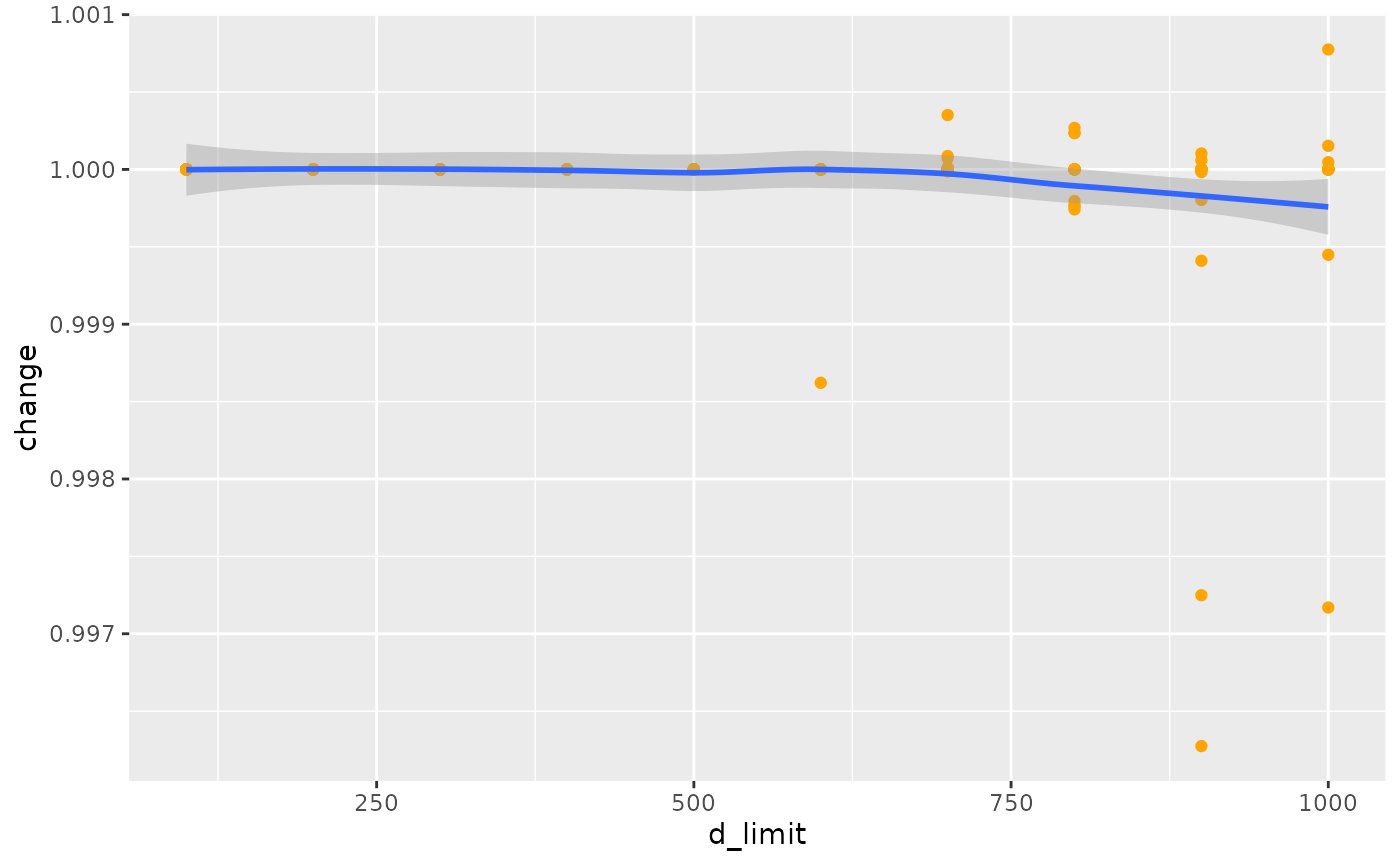
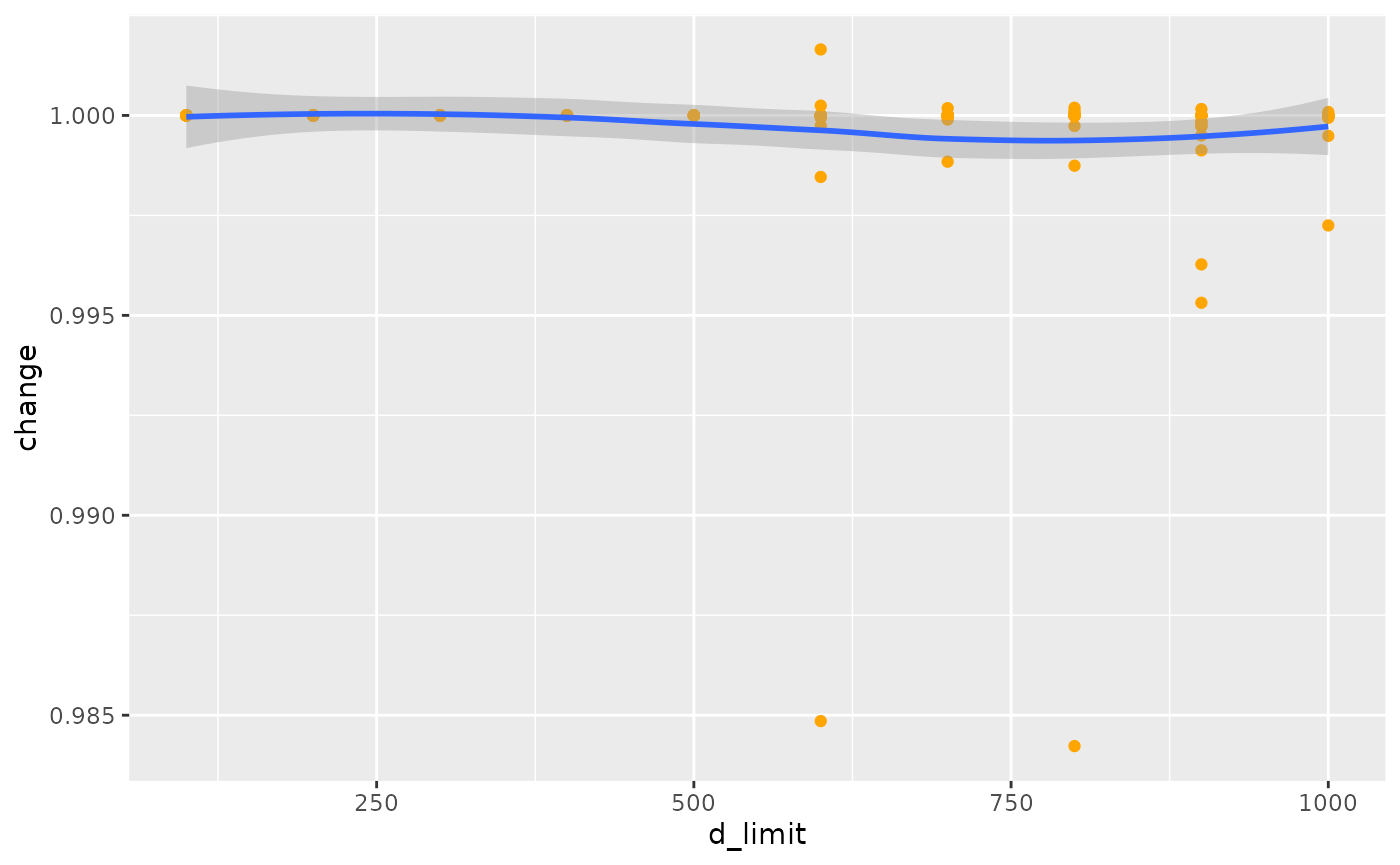
Deploying to gh-pages from @ UrbanAnalyst/gtfsrouter@ca607abd9677c1296d4531fa14f2df3e9f7f9b86 🚀

diff --git a/docs/articles/gtfsrouter.html b/docs/articles/gtfsrouter.html
@@ -33,7 +33,7 @@
       </button>
       <span class="navbar-brand">
         <a class="navbar-link" href="../index.html">gtfsrouter</a>
-        <span class="version label label-default" data-toggle="tooltip" data-placement="bottom" title="">0.1.0.006</span>
+        <span class="version label label-default" data-toggle="tooltip" data-placement="bottom" title="">0.1.0.008</span>
       </span>
     </div>
 
@@ -73,7 +73,7 @@
                         <h4 data-toc-skip class="author">Mark
 Padgham</h4>
             
-            <h4 data-toc-skip class="date">2023-06-27</h4>
+            <h4 data-toc-skip class="date">2023-06-30</h4>
       
       <small class="dont-index">Source: <a href="https://github.com/UrbanAnalyst/gtfsrouter/blob/HEAD/vignettes/gtfsrouter.Rmd" class="external-link"><code>vignettes/gtfsrouter.Rmd</code></a></small>
       <div class="hidden name"><code>gtfsrouter.Rmd</code></div>
@@ -126,7 +126,7 @@ to a locally-stored <code>.zip</code> archive in the
 data can be exported and re-imported with:</p>
 <div class="sourceCode" id="cb1"><pre class="downlit sourceCode r">
 <code class="sourceCode R"><span><span class="fu"><a href="../reference/berlin_gtfs_to_zip.html">berlin_gtfs_to_zip</a></span><span class="op">(</span><span class="op">)</span></span></code></pre></div>
-<pre><code><span><span class="co">## [1] "/tmp/RtmpXWNGxZ/vbb.zip"</span></span></code></pre>
+<pre><code><span><span class="co">## [1] "/tmp/RtmphxlksY/vbb.zip"</span></span></code></pre>
 <div class="sourceCode" id="cb3"><pre class="downlit sourceCode r">
 <code class="sourceCode R"><span><span class="va">f</span> <span class="op">&lt;-</span> <span class="fu"><a href="https://rdrr.io/r/base/file.path.html" class="external-link">file.path</a></span> <span class="op">(</span><span class="fu"><a href="https://rdrr.io/r/base/tempfile.html" class="external-link">tempdir</a></span> <span class="op">(</span><span class="op">)</span>, <span class="st">"vbb.zip"</span><span class="op">)</span></span>
 <span><span class="fu"><a href="https://rdrr.io/r/base/files.html" class="external-link">file.exists</a></span> <span class="op">(</span><span class="va">f</span><span class="op">)</span></span></code></pre></div>
@@ -160,7 +160,7 @@ for the current day of the week.</p>
 <span><span class="fu"><a href="../reference/gtfs_route.html">gtfs_route</a></span> <span class="op">(</span><span class="va">gtfs</span>,</span>
 <span>            from <span class="op">=</span> <span class="va">from</span>,</span>
 <span>            to <span class="op">=</span> <span class="va">to</span><span class="op">)</span></span></code></pre></div>
-<pre><code><span><span class="co">## Day not specified; extracting timetable for tuesday</span></span></code></pre>
+<pre><code><span><span class="co">## Day not specified; extracting timetable for friday</span></span></code></pre>
 <table class="table">
 <colgroup>
 <col width="11%">
@@ -347,7 +347,7 @@ data:</p>
 <span>                day <span class="op">=</span> <span class="st">"Sunday"</span><span class="op">)</span></span>
 <span>    <span class="op">)</span></span></code></pre></div>
 <pre><code><span><span class="co">##    user  system elapsed </span></span>
-<span><span class="co">##   0.073   0.012   0.085</span></span></code></pre>
+<span><span class="co">##   0.084   0.000   0.083</span></span></code></pre>
 <div class="sourceCode" id="cb14"><pre class="downlit sourceCode r">
 <code class="sourceCode R"><span><span class="fu"><a href="https://rdrr.io/r/base/names.html" class="external-link">names</a></span> <span class="op">(</span><span class="va">gtfs</span><span class="op">)</span></span></code></pre></div>
 <pre><code><span><span class="co">## [1] "calendar"   "routes"     "trips"      "stop_times" "stops"     </span></span>
@@ -365,7 +365,7 @@ data:</p>
 <span>                         to <span class="op">=</span> <span class="va">to</span>,</span>
 <span>                         start_time <span class="op">=</span> <span class="st">"12:00:00"</span><span class="op">)</span><span class="op">)</span></span></code></pre></div>
 <pre><code><span><span class="co">##    user  system elapsed </span></span>
-<span><span class="co">##   0.064   0.000   0.064</span></span></code></pre>
+<span><span class="co">##   0.062   0.000   0.063</span></span></code></pre>
 <p>Note that the <code>day</code> parameter is used to extract the
 timetable, after which it is no longer required in the actual call to
 <code><a href="../reference/gtfs_route.html">gtfs_route()</a></code>.</p>

diff --git a/docs/reference/summary.gtfs.html b/docs/reference/summary.gtfs.html
@@ -17,7 +17,7 @@
       </button>
       <span class="navbar-brand">
         <a class="navbar-link" href="../index.html">gtfsrouter</a>
-        <span class="version label label-default" data-toggle="tooltip" data-placement="bottom" title="">0.1.0.006</span>
+        <span class="version label label-default" data-toggle="tooltip" data-placement="bottom" title="">0.1.0.008</span>
       </span>
     </div>
 
@@ -81,7 +81,7 @@
     <div id="ref-examples">
     <h2>Examples</h2>
     <div class="sourceCode"><pre class="sourceCode r"><code><span class="r-in"><span><span class="fu"><a href="berlin_gtfs_to_zip.html">berlin_gtfs_to_zip</a></span> <span class="op">(</span><span class="op">)</span></span></span>
-<span class="r-out co"><span class="r-pr">#&gt;</span> [1] "/tmp/Rtmpcwcapn/vbb.zip"</span>
+<span class="r-out co"><span class="r-pr">#&gt;</span> [1] "/tmp/RtmpyxPgSn/vbb.zip"</span>
 <span class="r-in"><span><span class="va">f</span> <span class="op">&lt;-</span> <span class="fu"><a href="https://rdrr.io/r/base/file.path.html" class="external-link">file.path</a></span> <span class="op">(</span><span class="fu"><a href="https://rdrr.io/r/base/tempfile.html" class="external-link">tempdir</a></span> <span class="op">(</span><span class="op">)</span>, <span class="st">"vbb.zip"</span><span class="op">)</span></span></span>
 <span class="r-in"><span><span class="va">g</span> <span class="op">&lt;-</span> <span class="fu"><a href="extract_gtfs.html">extract_gtfs</a></span> <span class="op">(</span><span class="va">f</span><span class="op">)</span></span></span>
 <span class="r-msg co"><span class="r-pr">#&gt;</span> ▶<span style="color: #00BB00;"> Unzipping GTFS archive</span></span>
@@ -97,11 +97,11 @@
 <span class="r-out co"><span class="r-pr">#&gt;</span>   calendar     routes      trips stop_times      stops  transfers </span>
 <span class="r-out co"><span class="r-pr">#&gt;</span>       2395         52      28590      22666        957       9833 </span>
 <span class="r-in"><span><span class="va">g</span> <span class="op">&lt;-</span> <span class="fu"><a href="gtfs_timetable.html">gtfs_timetable</a></span> <span class="op">(</span><span class="va">g</span><span class="op">)</span></span></span>
-<span class="r-msg co"><span class="r-pr">#&gt;</span> Day not specified; extracting timetable for tuesday</span>
+<span class="r-msg co"><span class="r-pr">#&gt;</span> Day not specified; extracting timetable for friday</span>
 <span class="r-in"><span><span class="fu"><a href="https://rdrr.io/r/base/summary.html" class="external-link">summary</a></span> <span class="op">(</span><span class="va">g</span><span class="op">)</span> <span class="co"># also summarizes additional timetable information</span></span></span>
 <span class="r-msg co"><span class="r-pr">#&gt;</span> A gtfs timetable object with the following tables and respective numbers of entries in each:</span>
 <span class="r-out co"><span class="r-pr">#&gt;</span>   calendar     routes      trips stop_times      stops  transfers  timetable </span>
-<span class="r-out co"><span class="r-pr">#&gt;</span>       2395         52       7086       7626        957       9833       7052 </span>
+<span class="r-out co"><span class="r-pr">#&gt;</span>       2395         52       7763       7626        957       9833       7052 </span>
 <span class="r-out co"><span class="r-pr">#&gt;</span>   stop_ids   trip_ids </span>
 <span class="r-out co"><span class="r-pr">#&gt;</span>        957        574 </span>
 </code></pre></div>

diff --git a/docs/articles/traveltimes.html b/docs/articles/traveltimes.html
@@ -33,7 +33,7 @@
       </button>
       <span class="navbar-brand">
         <a class="navbar-link" href="../index.html">gtfsrouter</a>
-        <span class="version label label-default" data-toggle="tooltip" data-placement="bottom" title="">0.1.0.006</span>
+        <span class="version label label-default" data-toggle="tooltip" data-placement="bottom" title="">0.1.0.008</span>
       </span>
     </div>
 
@@ -73,7 +73,7 @@
                         <h4 data-toc-skip class="author">Mark Padgham
 &amp; Alexandra Kapp</h4>
             
-            <h4 data-toc-skip class="date">2023-06-27</h4>
+            <h4 data-toc-skip class="date">2023-06-30</h4>
       
       <small class="dont-index">Source: <a href="https://github.com/UrbanAnalyst/gtfsrouter/blob/HEAD/vignettes/traveltimes.Rmd" class="external-link"><code>vignettes/traveltimes.Rmd</code></a></small>
       <div class="hidden name"><code>traveltimes.Rmd</code></div>
@@ -101,7 +101,7 @@ function</a>, is necessary prior to calculating travel times.</p>
 <div class="sourceCode" id="cb1"><pre class="downlit sourceCode r">
 <code class="sourceCode R"><span><span class="kw"><a href="https://rdrr.io/r/base/library.html" class="external-link">library</a></span> <span class="op">(</span><span class="va"><a href="https://github.com/UrbanAnalyst/gtfsrouter" class="external-link">gtfsrouter</a></span><span class="op">)</span></span>
 <span><span class="fu"><a href="../reference/berlin_gtfs_to_zip.html">berlin_gtfs_to_zip</a></span> <span class="op">(</span><span class="op">)</span></span></code></pre></div>
-<pre><code><span><span class="co">## [1] "/tmp/RtmpVNJ0R5/vbb.zip"</span></span></code></pre>
+<pre><code><span><span class="co">## [1] "/tmp/RtmpTyBZzF/vbb.zip"</span></span></code></pre>
 <div class="sourceCode" id="cb3"><pre class="downlit sourceCode r">
 <code class="sourceCode R"><span><span class="va">f</span> <span class="op">&lt;-</span> <span class="fu"><a href="https://rdrr.io/r/base/file.path.html" class="external-link">file.path</a></span> <span class="op">(</span><span class="fu"><a href="https://rdrr.io/r/base/tempfile.html" class="external-link">tempdir</a></span> <span class="op">(</span><span class="op">)</span>, <span class="st">"vbb.zip"</span><span class="op">)</span></span>
 <span><span class="va">gtfs</span> <span class="op">&lt;-</span> <span class="fu"><a href="../reference/extract_gtfs.html">extract_gtfs</a></span> <span class="op">(</span><span class="va">f</span>, quiet <span class="op">=</span> <span class="cn">TRUE</span><span class="op">)</span></span>

diff --git a/docs/articles/transfers.html b/docs/articles/transfers.html
@@ -33,7 +33,7 @@
       </button>
       <span class="navbar-brand">
         <a class="navbar-link" href="../index.html">gtfsrouter</a>
-        <span class="version label label-default" data-toggle="tooltip" data-placement="bottom" title="">0.1.0.006</span>
+        <span class="version label label-default" data-toggle="tooltip" data-placement="bottom" title="">0.1.0.008</span>
       </span>
     </div>
 
@@ -73,7 +73,7 @@
                         <h4 data-toc-skip class="author">Mark
 Padgham</h4>
             
-            <h4 data-toc-skip class="date">2023-06-27</h4>
+            <h4 data-toc-skip class="date">2023-06-30</h4>
       
       <small class="dont-index">Source: <a href="https://github.com/UrbanAnalyst/gtfsrouter/blob/HEAD/vignettes/transfers.Rmd" class="external-link"><code>vignettes/transfers.Rmd</code></a></small>
       <div class="hidden name"><code>transfers.Rmd</code></div>
@@ -594,9 +594,9 @@ range of distance limits.</p>
 <p><img src="transfers_files/figure-html/plot1-1.png" width="700"></p>
 <p>And these additional transfer possibilities can make a significant
 difference to estimated travel times. Note, however, that the travel
-times only changed for 563 stations, while the value of
+times only changed for 649 stations, while the value of
 <code>nsame</code> value recording numbers of stations for which travel
-times did not change was 4,483. Travel times may also increase as
+times did not change was 4,386. Travel times may also increase as
 additional transfers may be used to reduce numbers of connecting
 services required for a particular trip, and the algorithm generally
 searches for connections with minimal numbers of transfers.</p>
@@ -678,7 +678,7 @@ limits of maximal transfer distance, although the overall effect is very
 minimal. The object <code>d</code> also records the proportion of
 station pairs for which modifications to the transfers table actually
 changed travel times, which in this case amounts to a mean value of
-0.001, clearly revealing that very few trips actually change.</p>
+0.0019, clearly revealing that very few trips actually change.</p>
 <div class="section level3">
 <h3 id="a-more-realistic-example">A more realistic example<a class="anchor" aria-label="anchor" href="#a-more-realistic-example"></a>
 </h3>

diff --git a/docs/reference/gtfs_transfer_table.html b/docs/reference/gtfs_transfer_table.html
@@ -17,7 +17,7 @@
       </button>
       <span class="navbar-brand">
         <a class="navbar-link" href="../index.html">gtfsrouter</a>
-        <span class="version label label-default" data-toggle="tooltip" data-placement="bottom" title="">0.1.0.006</span>
+        <span class="version label label-default" data-toggle="tooltip" data-placement="bottom" title="">0.1.0.008</span>
       </span>
     </div>
 
@@ -113,7 +113,7 @@ provided, this parameter is automatically set to <code>TRUE</code>.</p></dd>
     <div id="ref-examples">
     <h2>Examples</h2>
     <div class="sourceCode"><pre class="sourceCode r"><code><span class="r-in"><span><span class="fu"><a href="berlin_gtfs_to_zip.html">berlin_gtfs_to_zip</a></span> <span class="op">(</span><span class="op">)</span></span></span>
-<span class="r-out co"><span class="r-pr">#&gt;</span> [1] "/tmp/Rtmpcwcapn/vbb.zip"</span>
+<span class="r-out co"><span class="r-pr">#&gt;</span> [1] "/tmp/RtmpyxPgSn/vbb.zip"</span>
 <span class="r-in"><span><span class="va">f</span> <span class="op">&lt;-</span> <span class="fu"><a href="https://rdrr.io/r/base/file.path.html" class="external-link">file.path</a></span> <span class="op">(</span><span class="fu"><a href="https://rdrr.io/r/base/tempfile.html" class="external-link">tempdir</a></span> <span class="op">(</span><span class="op">)</span>, <span class="st">"vbb.zip"</span><span class="op">)</span></span></span>
 <span class="r-in"><span><span class="va">g</span> <span class="op">&lt;-</span> <span class="fu"><a href="extract_gtfs.html">extract_gtfs</a></span> <span class="op">(</span><span class="va">f</span>, quiet <span class="op">=</span> <span class="cn">TRUE</span><span class="op">)</span></span></span>
 <span class="r-in"><span><span class="va">g</span> <span class="op">&lt;-</span> <span class="fu">gtfs_transfer_table</span> <span class="op">(</span><span class="va">g</span>, d_limit <span class="op">=</span> <span class="fl">200</span><span class="op">)</span></span></span>

diff --git a/docs/reference/gtfs_route.html b/docs/reference/gtfs_route.html
@@ -18,7 +18,7 @@ a specified time."><!-- mathjax --><script src="https://cdnjs.cloudflare.com/aja
       </button>
       <span class="navbar-brand">
         <a class="navbar-link" href="../index.html">gtfsrouter</a>
-        <span class="version label label-default" data-toggle="tooltip" data-placement="bottom" title="">0.1.0.006</span>
+        <span class="version label label-default" data-toggle="tooltip" data-placement="bottom" title="">0.1.0.008</span>
       </span>
     </div>
 
@@ -182,7 +182,7 @@ can be calculated by setting <code>earliest_arrival = FALSE</code>.</p>
     <div id="ref-examples">
     <h2>Examples</h2>
     <div class="sourceCode"><pre class="sourceCode r"><code><span class="r-in"><span><span class="fu"><a href="berlin_gtfs_to_zip.html">berlin_gtfs_to_zip</a></span> <span class="op">(</span><span class="op">)</span> <span class="co"># Write sample feed from Berlin, Germany to tempdir</span></span></span>
-<span class="r-out co"><span class="r-pr">#&gt;</span> [1] "/tmp/Rtmpcwcapn/vbb.zip"</span>
+<span class="r-out co"><span class="r-pr">#&gt;</span> [1] "/tmp/RtmpyxPgSn/vbb.zip"</span>
 <span class="r-in"><span><span class="va">f</span> <span class="op">&lt;-</span> <span class="fu"><a href="https://rdrr.io/r/base/file.path.html" class="external-link">file.path</a></span> <span class="op">(</span><span class="fu"><a href="https://rdrr.io/r/base/tempfile.html" class="external-link">tempdir</a></span> <span class="op">(</span><span class="op">)</span>, <span class="st">"vbb.zip"</span><span class="op">)</span> <span class="co"># name of feed</span></span></span>
 <span class="r-in"><span><span class="va">gtfs</span> <span class="op">&lt;-</span> <span class="fu"><a href="extract_gtfs.html">extract_gtfs</a></span> <span class="op">(</span><span class="va">f</span><span class="op">)</span></span></span>
 <span class="r-msg co"><span class="r-pr">#&gt;</span> ▶<span style="color: #00BB00;"> Unzipping GTFS archive</span></span>

diff --git a/docs/reference/berlin_gtfs.html b/docs/reference/berlin_gtfs.html
@@ -23,7 +23,7 @@ characters.'><!-- mathjax --><script src="https://cdnjs.cloudflare.com/ajax/libs
       </button>
       <span class="navbar-brand">
         <a class="navbar-link" href="../index.html">gtfsrouter</a>
-        <span class="version label label-default" data-toggle="tooltip" data-placement="bottom" title="">0.1.0.006</span>
+        <span class="version label label-default" data-toggle="tooltip" data-placement="bottom" title="">0.1.0.008</span>
       </span>
     </div>
 
@@ -96,7 +96,7 @@ for which no route is possible return <code>NULL</code>.</p>
     <div id="ref-examples">
     <h2>Examples</h2>
     <div class="sourceCode"><pre class="sourceCode r"><code><span class="r-in"><span><span class="fu"><a href="berlin_gtfs_to_zip.html">berlin_gtfs_to_zip</a></span> <span class="op">(</span><span class="op">)</span> <span class="co"># Write sample feed from Berlin, Germany to tempdir</span></span></span>
-<span class="r-out co"><span class="r-pr">#&gt;</span> [1] "/tmp/Rtmpcwcapn/vbb.zip"</span>
+<span class="r-out co"><span class="r-pr">#&gt;</span> [1] "/tmp/RtmpyxPgSn/vbb.zip"</span>
 <span class="r-in"><span><span class="va">f</span> <span class="op">&lt;-</span> <span class="fu"><a href="https://rdrr.io/r/base/file.path.html" class="external-link">file.path</a></span> <span class="op">(</span><span class="fu"><a href="https://rdrr.io/r/base/tempfile.html" class="external-link">tempdir</a></span> <span class="op">(</span><span class="op">)</span>, <span class="st">"vbb.zip"</span><span class="op">)</span> <span class="co"># name of feed</span></span></span>
 <span class="r-in"><span><span class="va">gtfs</span> <span class="op">&lt;-</span> <span class="fu"><a href="extract_gtfs.html">extract_gtfs</a></span> <span class="op">(</span><span class="va">f</span><span class="op">)</span></span></span>
 <span class="r-msg co"><span class="r-pr">#&gt;</span> ▶<span style="color: #00BB00;"> Unzipping GTFS archive</span></span>

diff --git a/docs/reference/gtfs_timetable.html b/docs/reference/gtfs_timetable.html
@@ -17,7 +17,7 @@
       </button>
       <span class="navbar-brand">
         <a class="navbar-link" href="../index.html">gtfsrouter</a>
-        <span class="version label label-default" data-toggle="tooltip" data-placement="bottom" title="">0.1.0.006</span>
+        <span class="version label label-default" data-toggle="tooltip" data-placement="bottom" title="">0.1.0.008</span>
       </span>
     </div>
 
@@ -126,7 +126,7 @@ that case will generally take longer.</p>
     <div id="ref-examples">
     <h2>Examples</h2>
     <div class="sourceCode"><pre class="sourceCode r"><code><span class="r-in"><span><span class="fu"><a href="berlin_gtfs_to_zip.html">berlin_gtfs_to_zip</a></span> <span class="op">(</span><span class="op">)</span> <span class="co"># Write sample feed from Berlin, Germany to tempdir</span></span></span>
-<span class="r-out co"><span class="r-pr">#&gt;</span> [1] "/tmp/Rtmpcwcapn/vbb.zip"</span>
+<span class="r-out co"><span class="r-pr">#&gt;</span> [1] "/tmp/RtmpyxPgSn/vbb.zip"</span>
 <span class="r-in"><span><span class="va">f</span> <span class="op">&lt;-</span> <span class="fu"><a href="https://rdrr.io/r/base/file.path.html" class="external-link">file.path</a></span> <span class="op">(</span><span class="fu"><a href="https://rdrr.io/r/base/tempfile.html" class="external-link">tempdir</a></span> <span class="op">(</span><span class="op">)</span>, <span class="st">"vbb.zip"</span><span class="op">)</span> <span class="co"># name of feed</span></span></span>
 <span class="r-in"><span><span class="va">gtfs</span> <span class="op">&lt;-</span> <span class="fu"><a href="extract_gtfs.html">extract_gtfs</a></span> <span class="op">(</span><span class="va">f</span><span class="op">)</span></span></span>
 <span class="r-msg co"><span class="r-pr">#&gt;</span> ▶<span style="color: #00BB00;"> Unzipping GTFS archive</span></span>

diff --git a/docs/reference/extract_gtfs.html b/docs/reference/extract_gtfs.html
@@ -17,7 +17,7 @@
       </button>
       <span class="navbar-brand">
         <a class="navbar-link" href="../index.html">gtfsrouter</a>
-        <span class="version label label-default" data-toggle="tooltip" data-placement="bottom" title="">0.1.0.006</span>
+        <span class="version label label-default" data-toggle="tooltip" data-placement="bottom" title="">0.1.0.008</span>
       </span>
     </div>
 
@@ -102,7 +102,7 @@ function to the two time columns of the "stop_times" table.</p>
     <div id="ref-examples">
     <h2>Examples</h2>
     <div class="sourceCode"><pre class="sourceCode r"><code><span class="r-in"><span><span class="fu"><a href="berlin_gtfs_to_zip.html">berlin_gtfs_to_zip</a></span> <span class="op">(</span><span class="op">)</span> <span class="co"># Write sample feed from Berlin, Germany to tempdir</span></span></span>
-<span class="r-out co"><span class="r-pr">#&gt;</span> [1] "/tmp/Rtmpcwcapn/vbb.zip"</span>
+<span class="r-out co"><span class="r-pr">#&gt;</span> [1] "/tmp/RtmpyxPgSn/vbb.zip"</span>
 <span class="r-in"><span><span class="va">f</span> <span class="op">&lt;-</span> <span class="fu"><a href="https://rdrr.io/r/base/file.path.html" class="external-link">file.path</a></span> <span class="op">(</span><span class="fu"><a href="https://rdrr.io/r/base/tempfile.html" class="external-link">tempdir</a></span> <span class="op">(</span><span class="op">)</span>, <span class="st">"vbb.zip"</span><span class="op">)</span> <span class="co"># name of feed</span></span></span>
 <span class="r-in"><span><span class="va">gtfs</span> <span class="op">&lt;-</span> <span class="fu">extract_gtfs</span> <span class="op">(</span><span class="va">f</span><span class="op">)</span></span></span>
 <span class="r-msg co"><span class="r-pr">#&gt;</span> ▶<span style="color: #00BB00;"> Unzipping GTFS archive</span></span>

diff --git a/docs/authors.html b/docs/authors.html
@@ -17,7 +17,7 @@
       </button>
       <span class="navbar-brand">
         <a class="navbar-link" href="index.html">gtfsrouter</a>
-        <span class="version label label-default" data-toggle="tooltip" data-placement="bottom" title="">0.1.0.006</span>
+        <span class="version label label-default" data-toggle="tooltip" data-placement="bottom" title="">0.1.0.008</span>
       </span>
     </div>
 
@@ -74,13 +74,13 @@
 
     <p>Padgham M, Stepniak M (2023).
 <em>gtfsrouter: Routing with GTFS (General Transit Feed Specification) Data</em>.
-R package version 0.1.0.006, <a href="https://github.com/UrbanAnalyst/gtfsrouter" class="external-link">https://github.com/UrbanAnalyst/gtfsrouter</a>. 
+R package version 0.1.0.008, <a href="https://github.com/UrbanAnalyst/gtfsrouter" class="external-link">https://github.com/UrbanAnalyst/gtfsrouter</a>. 
 </p>
     <pre>@Manual{,
   title = {gtfsrouter: Routing with GTFS (General Transit Feed Specification) Data},
   author = {Mark Padgham and Marcin Stepniak},
   year = {2023},
-  note = {R package version 0.1.0.006},
+  note = {R package version 0.1.0.008},
   url = {https://github.com/UrbanAnalyst/gtfsrouter},
 }</pre>
 

diff --git a/docs/reference/berlin_gtfs_to_zip.html b/docs/reference/berlin_gtfs_to_zip.html
@@ -18,7 +18,7 @@ a file named "vbb.zip" to tempdir().'><!-- mathjax --><script src="https://cdnjs
       </button>
       <span class="navbar-brand">
         <a class="navbar-link" href="../index.html">gtfsrouter</a>
-        <span class="version label label-default" data-toggle="tooltip" data-placement="bottom" title="">0.1.0.006</span>
+        <span class="version label label-default" data-toggle="tooltip" data-placement="bottom" title="">0.1.0.008</span>
       </span>
     </div>
 

diff --git a/docs/reference/frequencies_to_stop_times.html b/docs/reference/frequencies_to_stop_times.html
@@ -18,7 +18,7 @@ used for routing."><!-- mathjax --><script src="https://cdnjs.cloudflare.com/aja
       </button>
       <span class="navbar-brand">
         <a class="navbar-link" href="../index.html">gtfsrouter</a>
-        <span class="version label label-default" data-toggle="tooltip" data-placement="bottom" title="">0.1.0.006</span>
+        <span class="version label label-default" data-toggle="tooltip" data-placement="bottom" title="">0.1.0.008</span>
       </span>
     </div>
 
